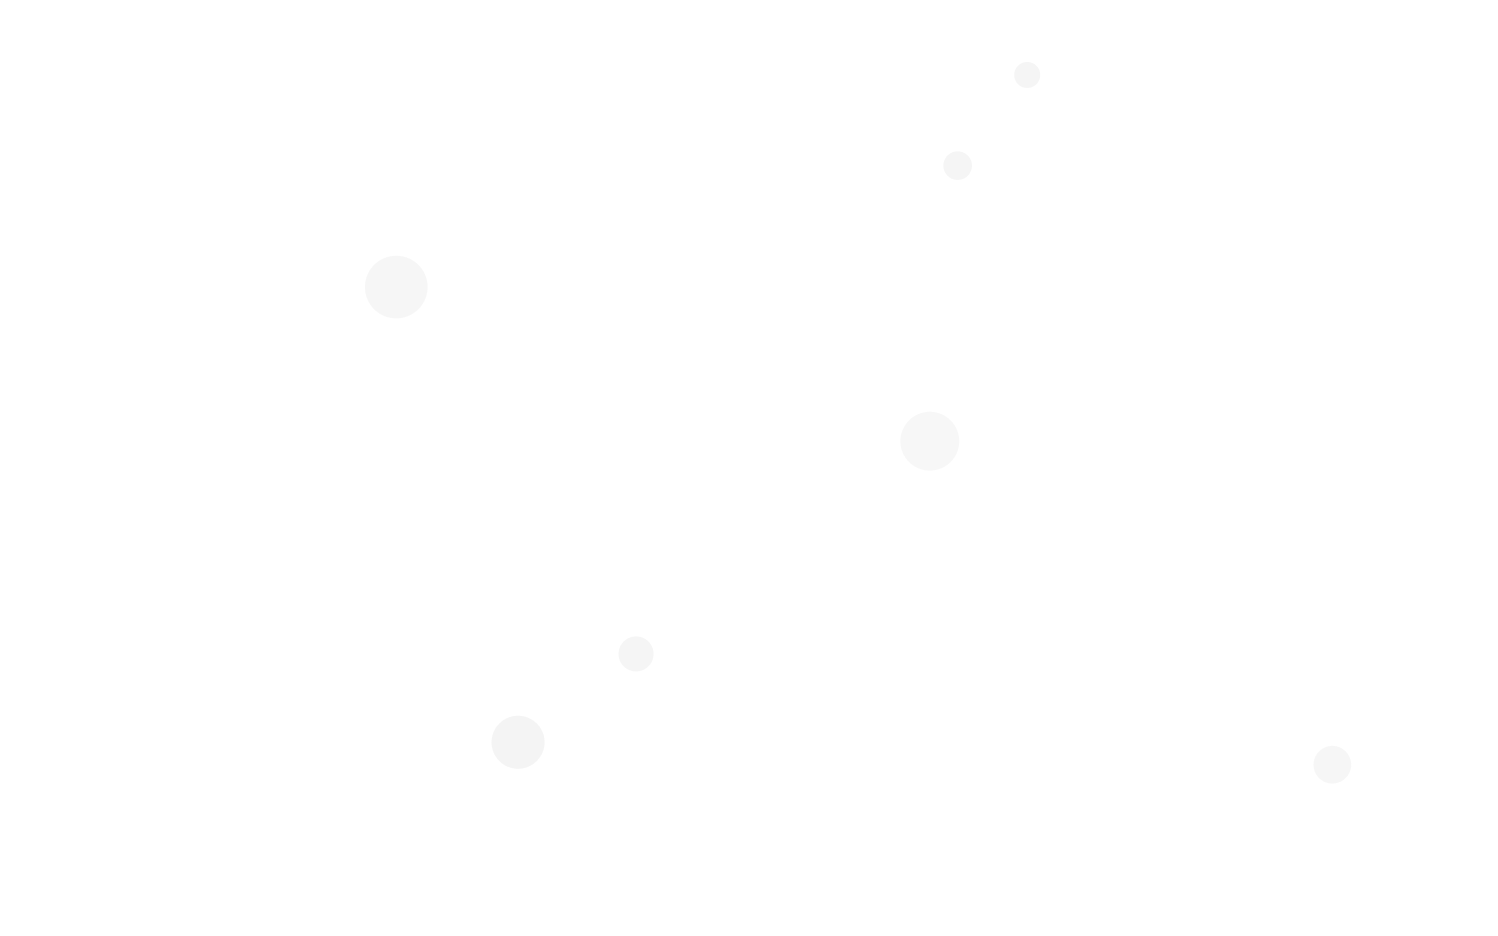
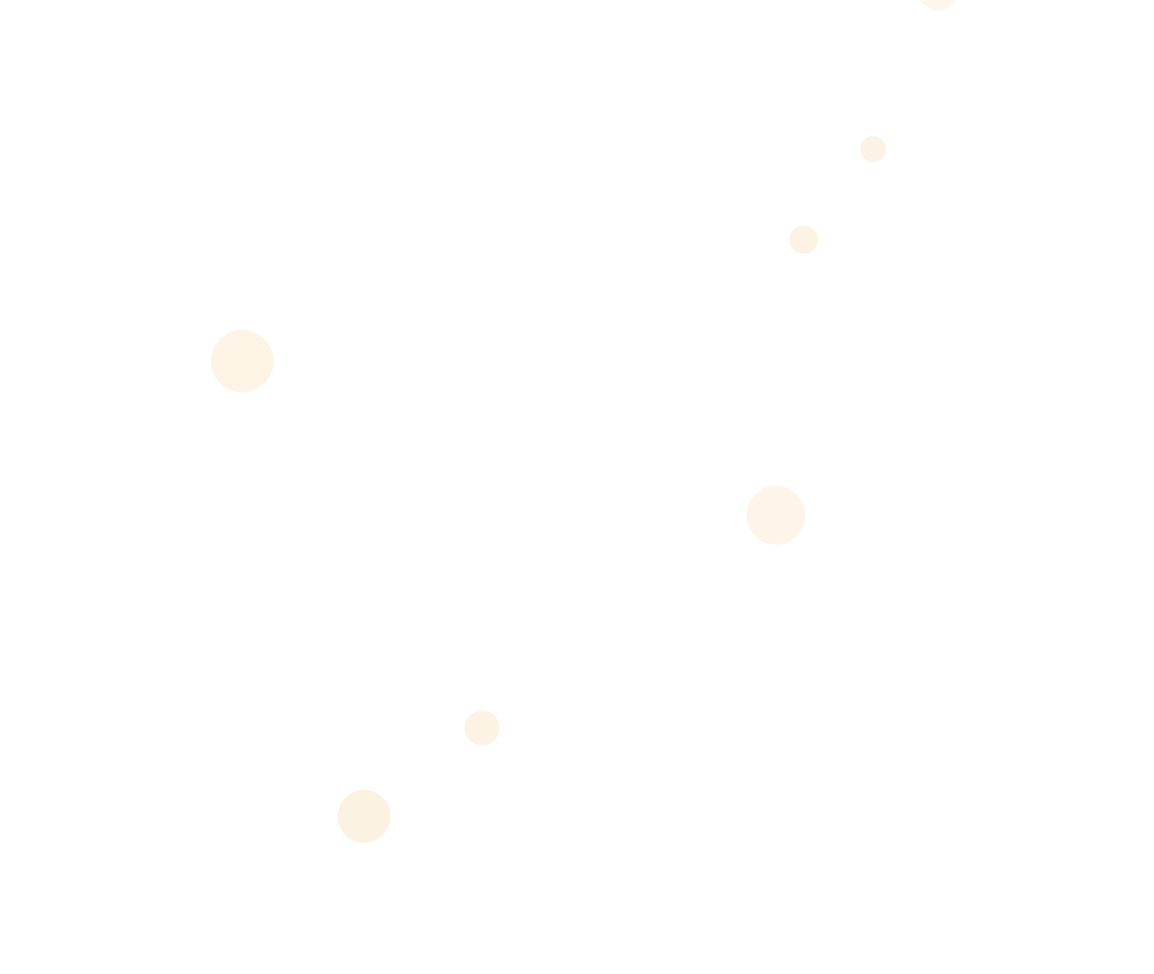
Rebranded back to Cheese

diff --git a/pages/index.js b/pages/index.js
@@ -50,19 +50,17 @@ class UserPage extends React.Component {
               <a href={config.social.twitter} target="_blank" className="mainbutton">
                 <FontAwesomeIcon icon={["fab", "twitter"]} />
               </a>
-              <a href={config.social.instagram} target="_blank" className="mainbutton">
-                <FontAwesomeIcon icon={["fab", "instagram"]} />
-              </a>
               <a href={config.social.facebook} target="_blank" className="mainbutton">
                 <FontAwesomeIcon icon={["fab", "facebook"]} />
               </a>
               <a href={config.social.youtube} target="_blank" className="mainbutton">
                 <FontAwesomeIcon icon={["fab", "youtube"]} />
               </a>
+              
             </div>
 
             <div>
-              <img className="avatar" src="avatar.png" style={{ maxWidth: config.avatar.size }}/>
+              <img className="avatar" src={config.user.avatar} style={{ maxWidth: config.avatar.size }}/>
             </div>
           </div>
         </div>
@@ -85,7 +83,7 @@ class UserPage extends React.Component {
         </div>
 
         <div className="main projects">
-            <div className="flex">
+              <div className="flex">
               <div className="left-line">
               </div>
               <div>
@@ -142,17 +140,13 @@ class UserPage extends React.Component {
               </div>
             </div>
             <div className="btncenter">
-            <a target="_blank" className="projbtn" href={config.social.caffeine}
+            <a target="_blank" className="projbtn" href={config.social.glimesh}
       style={{color: config.web.mainbutton.color, background: config.web.mainbutton.background 
       }}><FontAwesomeIcon icon={["fas", "headset"]} /> watch live</a>
             </div>
         </div>
         <div className="project">
         <div className="flex-grid2">
-            <div className="col center">
-              <iframe className="cafvid" src="https://preview.caffeine.tv/xpbsh" scrolling="no" frameborder="0"></iframe>
-            </div>
-
             {config.schedule.map((schedule, index) => (
             <div className="col center card2">
             <img className="schedulelogo" src={schedule.logo} />

diff --git a/styles.css b/styles.css
@@ -1,7 +1,7 @@
 body {
   text-align: left;
   font-family: "Quicksand";
-  background: #121212;
+  background: #282828;
   margin: 0;
   overflow: hidden;
 }
@@ -30,7 +30,6 @@ h1 {
   background: #282828;
   margin: 20px;
   display: inline-block;
-  vertical-align: middle;
 }
 
 .shots {
@@ -45,8 +44,8 @@ h1 {
 }
 
 .titlehr {
-  border: 1px solid #fff;
-  background: #fff;
+  border: 1px solid #eda12d;
+  background: #eda12d;
   border-radius: 7px 7px 7px 7px;
   height: 6px;
   width: 200px;
@@ -55,8 +54,8 @@ h1 {
 }
 
 .titlehr2 {
-  border: 1px solid #fff;
-  background: #fff;
+  border: 1px solid #eda12d;
+  background: #eda12d;
   border-radius: 7px 7px 7px 7px;
   height: 6px;
   width: 100px;
@@ -83,7 +82,6 @@ h1 {
   background: #282828;
   margin: 20px;
   display: inline-block;
-  vertical-align: middle;
 }
 
 .card3 {
@@ -95,7 +93,6 @@ h1 {
   margin: 20px;
   padding-right: 50px;
   display: inline-block;
-  vertical-align: middle;
 }
 
 .card2 > a {
@@ -228,7 +225,7 @@ h1 {
 
 .herocont {
   display: flex;
-  margin-top: 100px;
+  margin-top: 150px;
   align-items: center;
   vertical-align: middle;
   justify-content: space-around;
@@ -278,7 +275,7 @@ h1 {
   content: "";
   margin-top: 25px;
   width: -10px;
-  border: 5px solid #fff;
+  border: 5px solid #eda12d;
   border-radius: 10px;
   height: 38px;
   margin-right: 45px;
@@ -417,8 +414,9 @@ p {
 }
 
 .logo {
-  max-height: 104px;
+  max-height: 45px;
   margin-top: 50px;
+  margin-left: 50px;
 }
 
 .nav {

diff --git a/README.md b/README.md
@@ -1,2 +1,77 @@
-![](https://i.imgur.com/CfOEU3L.png)
+![](https://i.imgur.com/R0gZo17.png)
 
+A mix of tools at your disposal. Integrating all the services out there into one seamless web-stack.
+
+Coded with 🧡 by [🐙](https://orangop.us)
+
+## Pre-requisites:
+- [Nodejs](https://nodejs.org)
+
+## Features
+- Dynamix Overlays (/overlays)
+- GoDECK (/go)
+- Dynamix Portfolio (/)
+- Easily configurable config file
+- Built on NextJS and React
+
+## Planned Features
+- Dynamically updated buttons
+- UI frontend
+- Razer Chroma Integration
+- Libby Integration
+- Settings Panel
+- Schedules / Events
+- Discord Rich Presence
+- TouchPortal Integration
+- Auth to different streaming platforms using Auth0
+- Windows, Linux and Mac support
+
+## To-Do
+> A lot of things, more things than you would wanna know.
+
+## UI Preview
+The UI is coming very very soon. 
+
+<img style="border-radius: 25px;" src="/images/preview.gif"/>
+
+## Access the endpoints
+  
+  > If you're on mobile then go to http://`YOUR_LOCAL_IP`:3000/
+
+## Change the config.json
+
+There's a bunch of configs in the config so play around and have fun! 
+
+## Platforms
+
+We're working on integrating Glimesh after it launches.
+
+## API Routes
+
+API documentation coming soon.
+
+# Get Started
+
+## Dev environment
+
+> 
+
+## Full-stack Web App
+
+A fully featured app will be coming soon! Stay tuned for more updates. In the meantime you can follow  @[Orangopus](https://twitter.com/Orangopus) on Twitter for updates and watch the livestreams.
+
+# Support
+
+We're available pretty much 24/7 on our [Guilded](https://go.orangop.us/guilded) so any support queries you can post in the `help` channel!
+
+For our Help Centre: https://help.orangop.us
+
+# Contributing to the code
+
+> This is an extremely experimental build. Please submit an issue/pull request if you find any errors.
+
+# License
+
+<img style="border-radius: 25px;" src="/images/authors.gif"/>
+
+>This software is licensed under MIT and maintained by the Orangopus Team.
